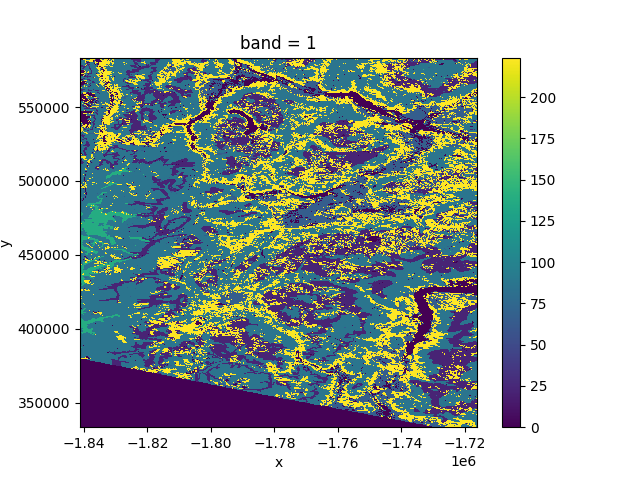
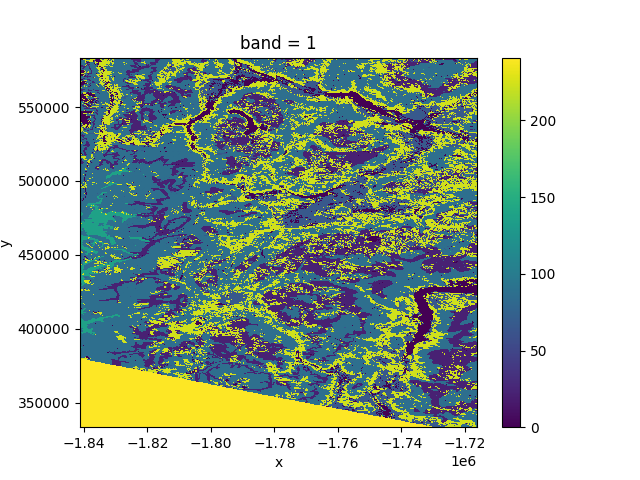
mostly added metadata to canadian data

diff --git a/conversion.py b/conversion.py
@@ -18,7 +18,7 @@ import rioxarray as rxr
 # 
 ca_to_us_fuelbeds = {
     # key values from metadata of Canadian fuel data
-    0: 0, # Out of domain
+    0: -9999, # Out of domain
     101: 85, # C1 - Spruce–Lichen Woodland -> 85 - black spruce/lichen forest
     102: 87, # C2 - Boreal Spruce -> 87 - Black spruce/feathermoss forest
     103: 22, # C3 - Mature Jack or Lodgepole Pine -> 22 - Mature lodgepole pine forest (146 for jack, but lodgepole is more common than jack in Western Canada)
@@ -53,6 +53,7 @@ def fuelbed_convert(canadian_fuelbed, x, y):
 canadian_file_path = "data/nat_fbpfuels_2014b.tif"
 cdata = xr.open_rasterio(canadian_file_path)
 print("CANADA: ")
+print(cdata)
 
 # plot piece of initial data for comparision
 print("Plotting initial")
@@ -60,32 +61,53 @@ cdata[0, 13000:14000, 2000:2500].plot() # full size doesn't resolve, too big
 plt.savefig("CApre.png")
 
 # convert FBP fuel types to FCCS
-for x in range(cdata.x.size):
-    for y in range(cdata.y.size):
-        data = cdata.data
-        data[0, y, x] = fuelbed_convert(data[0, y, x], x, y)
-        cdata.data = data
+#for x in range(cdata.x.size):
+#    for y in range(cdata.y.size):
+#        data = cdata.data
+#       data[0, y, x] = fuelbed_convert(data[0, y, x], x, y)
+#        cdata.data = data
 # smaller range for testing:
-# print("Converting fuelbeds")
-#or x in range(13000, 14000):
-#    for y in range(2000, 2500):
-#        cdata.data[0, x, y] = fuelbed_convert(cdata.data[0, x, y], x, y)
+print("Converting fuelbeds")
+for x in range(13000, 14000):
+    for y in range(2000, 2500):
+        cdata.data[0, x, y] = fuelbed_convert(cdata.data[0, x, y], x, y)
+print("new data")
+print(cdata)
 print("plotting final")
 plt.clf()
 cdata[0, 13000:14000, 2000:2500].plot() # full size doesn't resolve, too big
 plt.savefig("CApost.png")
-cdata.to_netcdf("data/fccs_canada.nc")
+
+print("CONVERTING array to dataset")
+# convert from dataarray to dataset (so it's like american data)
+cdataset = cdata[0, :, :].to_dataset(name = "Band1")
+
+# import American fuel data to use as reference
+american_file_path = "data/fccs_fuelload.nc"
+adataset = xr.open_dataset(american_file_path)
+
+cdataset.attrs['Conventions'] = adataset.attrs['Conventions']
+
+print("Converting metadata")
+lcc = adataset.lambert_conformal_conic 
+lcc.attrs['Northernmost_Northing'] = cdata.y.values[0]
+lcc.attrs['Southernmost_Northing'] = cdata.y.values[-1]
+lcc.attrs['Easternmost_Easting'] = cdata.x.values[-1]
+lcc.attrs['Westernmost_Easting'] = cdata.x.values[0]
+#lcc.spatial_ref = ?
+#lcc.GeoTransform = ?
+lcc.attrs['central_meridian'] = -95
+lcc.attrs['standard_parallel_1'] = 49
+lcc.attrs['standard_parallel_2'] = 77
+lcc.attrs['latitude_of_projection_origin'] = 49
+
+cdataset = cdataset.assign(lambert_conformal_conic = lcc)
 
 
-# import American fuel data
-# american_file_path = "data/fccs_fuelload.nc"
-# adata = xr.open_dataset(american_file_path)
-# print("AMERICA: ", adata)
+print(cdata.crs)
 
-#import Alaskan fuel data
-#alaskan_file_path = "data/FCCS_Alaska.nc"
-#akdata = xr.open_dataset(alaskan_file_path)
-#print("ALASKA: ", akdata)
-#print(akdata.attrs)
-#akdata.Band1.plot()
-#plt.savefig('AKtestfig.png')
+
+
+#plt.clf()
+#cdataset.Band1[0, 13000:14000, 2000:2500].plot() # full size doesn't resolve, too big
+#plt.savefig("CAdataset.png")

diff --git a/readCAnc.py b/readCAnc.py
@@ -10,7 +10,23 @@ import scipy
 import rasterio
 from affine import Affine
 
-data = xr.open_dataset("data/fccs_canada.nc")
+data = xr.open_dataarray("data/fccs_canada.nc")
+print("FROM NC:")
 print(data)
-data.__xarray_dataarray_variable__[0, 9000:14000, 1000:4500].plot()
-plt.savefig('CAnc.png')
+#data.__xarray_dataarray_variable__[0, 9000:14000, 1000:4500].plot()
+#plt.savefig('CAnc.png')
+print("FROM TIF")
+canadian_file_path = "data/nat_fbpfuels_2014b.tif"
+cdata = xr.open_rasterio(canadian_file_path)
+print(cdata)
+
+# import American fuel data
+american_file_path = "data/fccs_fuelload.nc"
+adata = xr.open_dataset(american_file_path)
+print("AMERICA: ", adata)
+print(adata.lambert_conformal_conic)
+
+# import Alaskan fuel data
+alaskan_file_path = "data/FCCS_Alaska.nc"
+akdata = xr.open_dataset(alaskan_file_path)
+print("ALASKA: ", akdata)

diff --git a/test.py b/test.py
@@ -15,7 +15,7 @@ nc = Dataset('data/fccs_fuelload.nc')
 #print(nc)
 data = xr.open_dataset("data/fccs_fuelload.nc")
 print("XARRAY: ")
-print(data.attrs)
+print(data)
 #dataplot = data.where(data != -9999.)
 #dataplot.plot()
 #plt.savefig('UStestfig.png')
